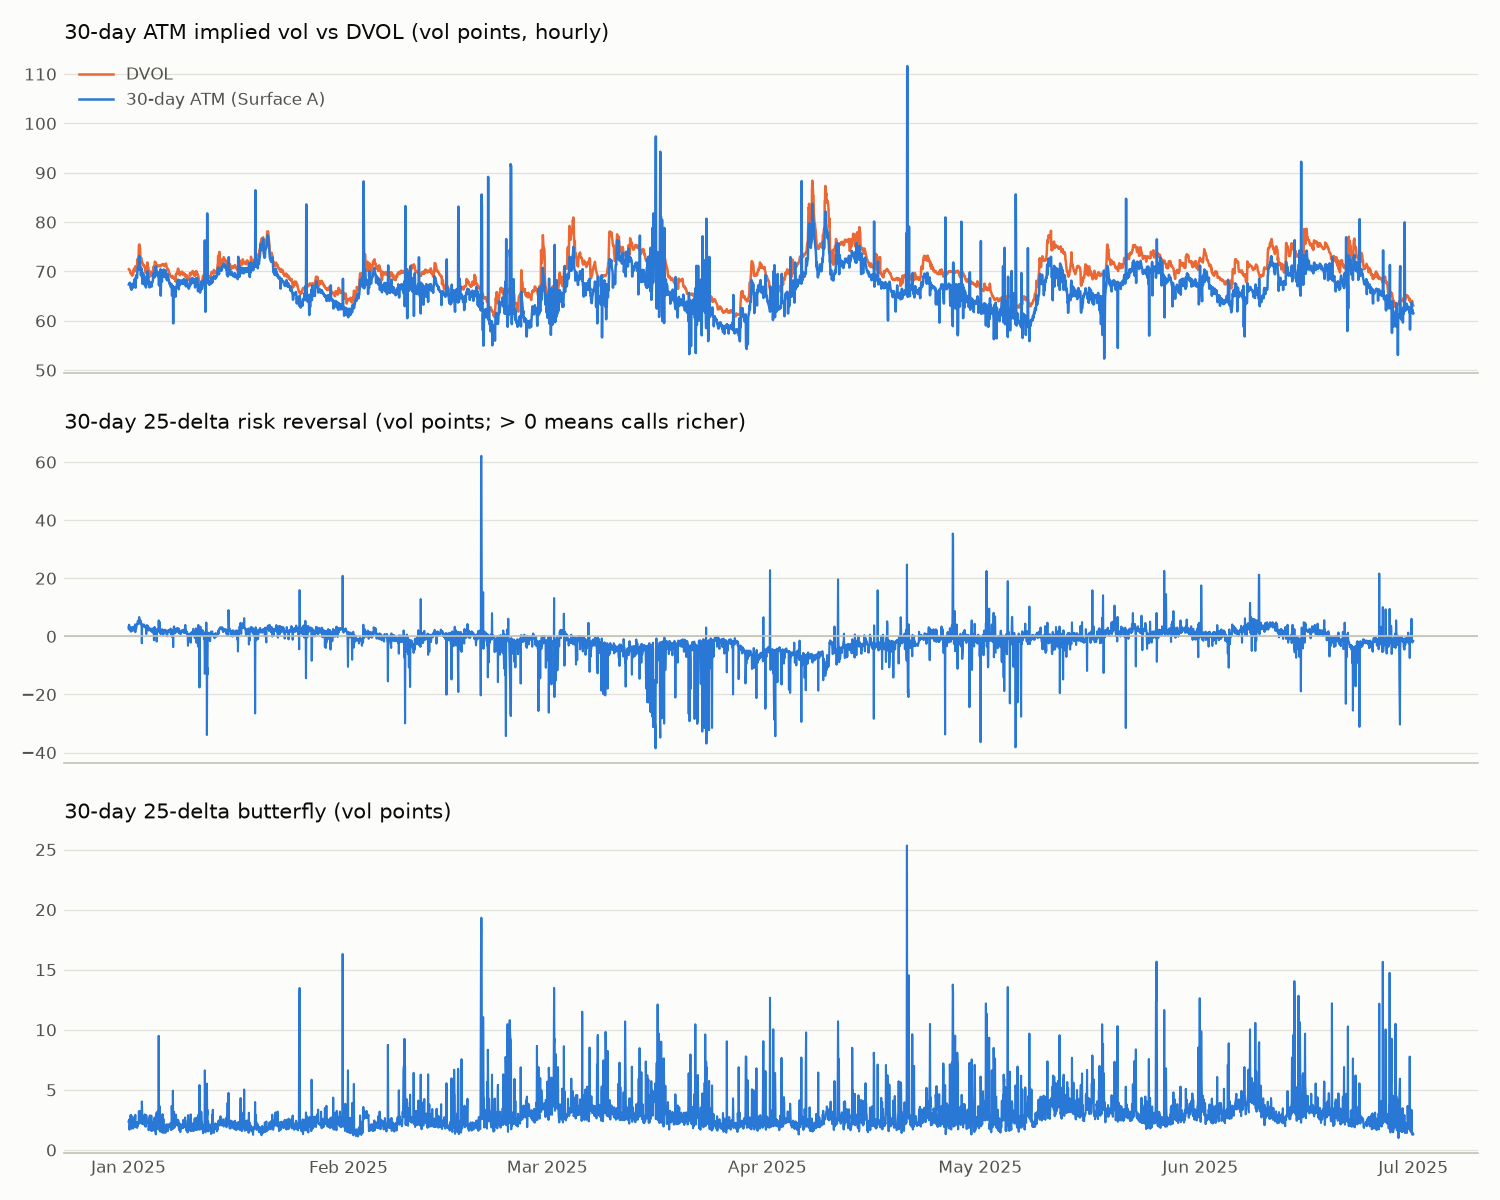
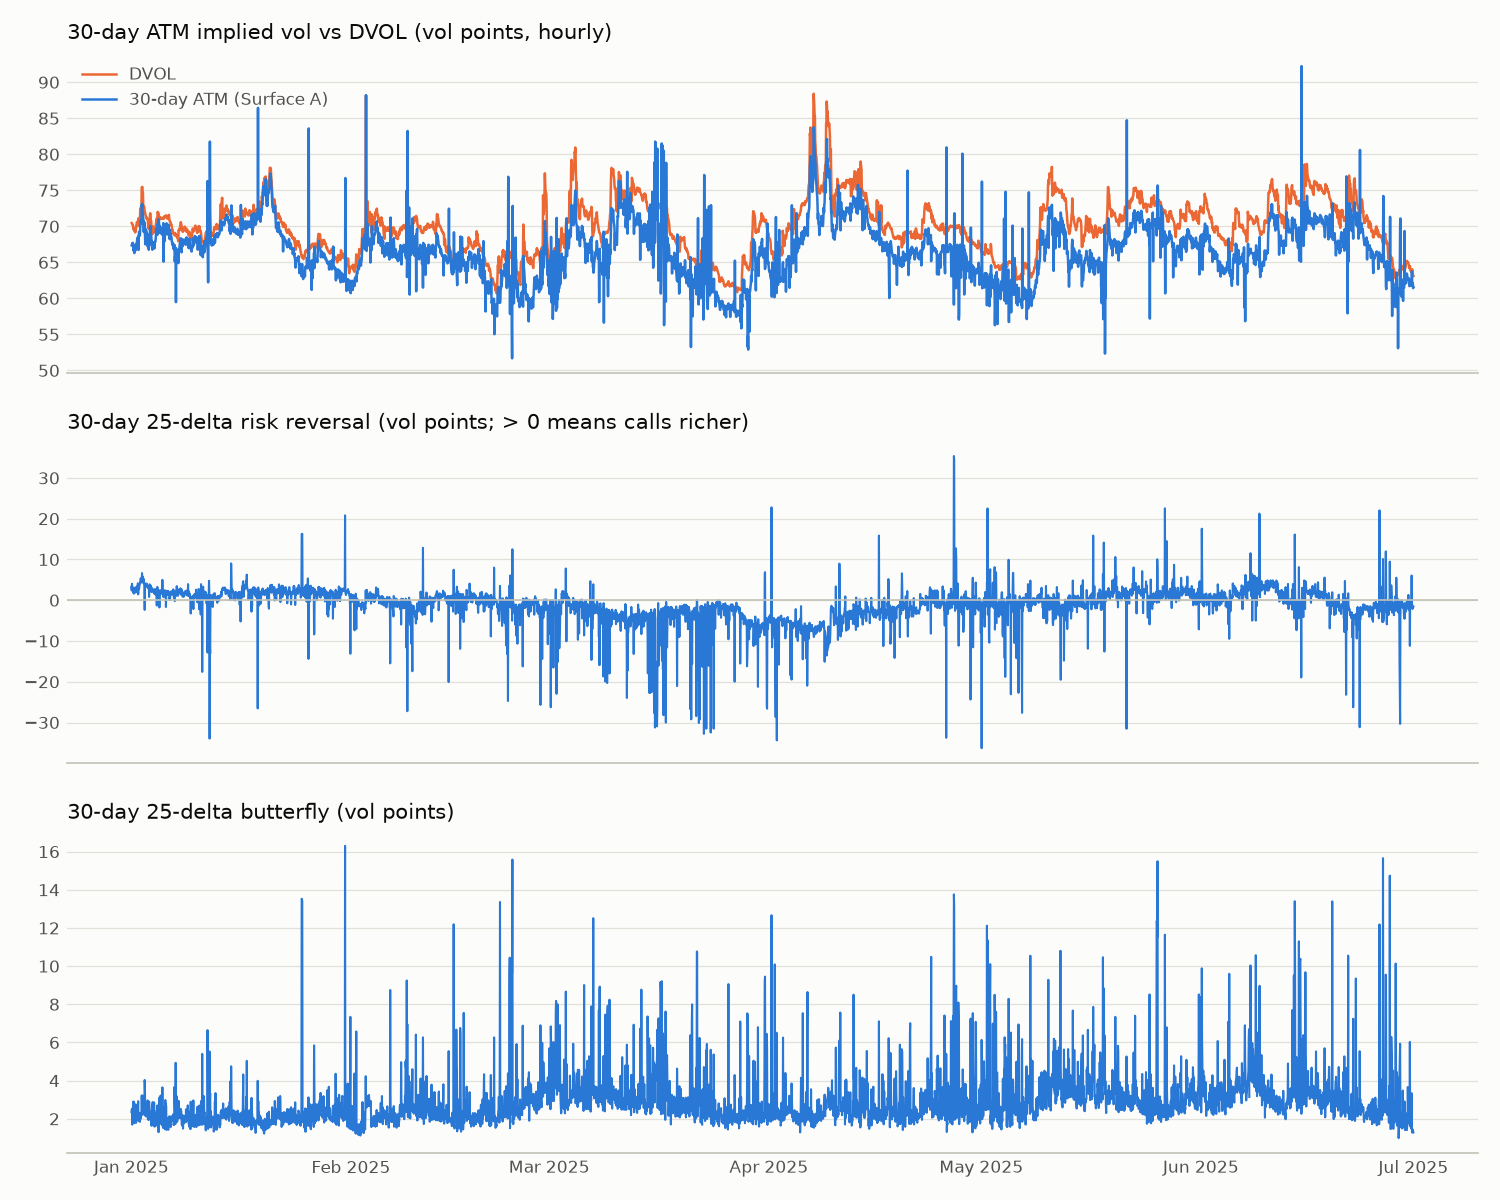
surface: full fits need >= 4 strikes both sides of the forward; DVOL check on daily changes plus level band; per-bucket RMSE targets (D026)

diff --git a/src/mm/surface/report.py b/src/mm/surface/report.py
@@ -120,14 +120,16 @@ def normal_days(dvol: pd.DataFrame, cfg: Config) -> pd.Series:
     return (chg < thr).rename("normal"), thr
 
 
-def dvol_tracking(refits: pd.DataFrame, dvol: pd.DataFrame) -> tuple[pd.DataFrame, float]:
-    # Each hourly DVOL close becomes known at available_at (end of its hour). Compare with
-    # the 30-day ATM at that same refit time.
+def dvol_tracking(refits: pd.DataFrame, dvol: pd.DataFrame) -> tuple[pd.DataFrame, dict]:
+    """Each hourly DVOL close becomes known at available_at (end of its hour); compare it
+    with the 30-day ATM at that same refit time. Returns the joined hourly series and
+    hourly / daily change correlations (D026: the daily one is the check)."""
     r = refits.set_index("refit_ts")["atm_cm"]
     d = dvol.set_index("available_at")["dvol_close"]
     j = pd.concat([r.rename("atm"), d.rename("dvol")], axis=1, join="inner").dropna()
-    corr = float(j.diff().dropna().corr().iloc[0, 1])
-    return j, corr
+    hourly = float(j.diff().dropna().corr().iloc[0, 1])
+    daily = float(j.resample("1D").last().diff().dropna().corr().iloc[0, 1])
+    return j, {"hourly": hourly, "daily": daily}
 
 
 def plot_atm_dvol(j: pd.DataFrame, refits: pd.DataFrame, path: Path) -> None:
@@ -164,9 +166,12 @@ def write_report(cfg: Config, out: Path) -> bool:
     clean_frac = float(on_normal["clean"].mean())
     arb_ok = clean_frac >= v.target_arb_free_frac
     j, corr = dvol_tracking(refits, dvol)
-    corr_ok = corr >= v.target_dvol_change_corr
+    corr_ok = corr["daily"] >= v.target_dvol_daily_corr
     spread = (j["dvol"] - j["atm"]) * 100
-    passed = rmse_ok and arb_ok and corr_ok
+    band_lo, band_hi = v.dvol_spread_band
+    in_band = float(((spread >= band_lo) & (spread <= band_hi)).mean())
+    band_ok = in_band >= v.target_dvol_spread_frac
+    passed = rmse_ok and arb_ok and corr_ok and band_ok
     plot_atm_dvol(j, refits, Path("reports/figures/phase3_atm_vs_dvol.png"))
     worst = (
         rf.groupby("day")["clean"]
@@ -185,8 +190,12 @@ def write_report(cfg: Config, out: Path) -> bool:
         f"| ≥ {v.target_arb_free_frac * 100:.0f}% | {mark[arb_ok]} |"
     )
     corr_row = (
-        f"| 30d ATM vs DVOL, hourly-change correlation | {corr:.3f} "
-        f"| ≥ {v.target_dvol_change_corr} | {mark[corr_ok]} |"
+        f"| 30d ATM vs DVOL, daily-change correlation | {corr['daily']:.3f} "
+        f"| ≥ {v.target_dvol_daily_corr} | {mark[corr_ok]} |"
+    )
+    band_row = (
+        f"| hours with DVOL − 30d ATM in [{band_lo:g}, {band_hi:g}] vol points "
+        f"| {in_band * 100:.1f}% | ≥ {v.target_dvol_spread_frac * 100:.0f}% | {mark[band_ok]} |"
     )
     md = f"""# Phase 3: Surface A (eSSVI on Deribit mark IVs)
 
@@ -200,11 +209,15 @@ Generated by `uv run python -m mm.surface.report --config config/base.yaml`.
 | fit error | see table below | per expiry bucket | {"✅" if rmse_ok else "❌"} |
 {arb_row}
 {corr_row}
+{band_row}
 
 Normal day: |daily DVOL change| < {thr * 100:.2f} vol points (the {v.normal_day_dvol_quantile:.0%}
 quantile of the training period, up to {cfg.study_period.train_end}).
 DVOL − 30d ATM: mean {spread.mean():.2f}, std {spread.std():.2f} vol points (DVOL is a
 variance-swap-style index, so it sits above ATM by construction).
+Hourly-change correlation {corr["hourly"]:.3f}, for information only: hourly DVOL moves
+(std {j["dvol"].diff().std() * 100:.2f} vol points) are small next to the sampling noise of
+a surface fitted to trade-time marks, so the daily check is used instead (D026).
 
 ## Fit error (vega- and recency-weighted RMSE of full fits, vol points)
 

diff --git a/tests/test_surface_fit.py b/tests/test_surface_fit.py
@@ -34,10 +34,26 @@ def test_recovers_true_smile_without_noise(cfg):
     assert fit.rmse_volpts < 1e-3
 
 
-def test_three_strikes_are_enough_for_a_full_fit(cfg):
-    fit = fit_expiry(_marks(TRUE, np.array([-0.1, 0.0, 0.1])), prev=None, cfg=cfg.surface, t_ref=T)
+def test_four_strikes_either_side_of_forward_give_a_full_fit(cfg):
+    ks = np.array([-0.1, -0.03, 0.04, 0.1])
+    fit = fit_expiry(_marks(TRUE, ks), prev=None, cfg=cfg.surface, t_ref=T)
     assert fit.kind == "full"
     assert fit.essvi.theta == pytest.approx(TRUE.theta, rel=1e-4)
+
+
+def test_three_strikes_are_not_enough_for_a_full_fit(cfg):
+    # 3 points, 3 parameters: an exact fit with an arbitrary ATM level (D026)
+    fit = fit_expiry(_marks(TRUE, np.array([-0.1, 0.0, 0.1])), prev=None, cfg=cfg.surface, t_ref=T)
+    assert fit.kind == "none"
+
+
+def test_strikes_all_on_one_side_do_not_give_a_full_fit(cfg):
+    # many OTM calls but nothing below the forward: ATM would be extrapolated (D026)
+    prev = fit_expiry(_marks(TRUE, np.linspace(-0.3, 0.3, 9)), prev=None, cfg=cfg.surface, t_ref=T)
+    m = _marks(ESSVI(0.012, -0.3, 0.035), np.linspace(0.05, 0.4, 8))
+    fit = fit_expiry(m, prev=prev, cfg=cfg.surface, t_ref=T, prev_age_s=600)
+    assert fit.kind == "carry"
+    assert fit.essvi.theta == pytest.approx(prev.essvi.theta)
 
 
 def test_vega_weighting_downweights_wing_outlier(cfg):

diff --git a/src/mm/surface/fit.py b/src/mm/surface/fit.py
@@ -1,7 +1,8 @@
 """Fit one expiry's eSSVI slice to mark IVs (decisions D021, D023).
 
 Ladder (eSSVI has 3 parameters):
-    >= min_strikes_full distinct strikes        full   (theta, rho, psi), warm-started
+    >= min_strikes_full distinct strikes, with  full   (theta, rho, psi), warm-started
+    strikes on both sides of the forward (D026)
     fewer, previous fit younger than max_carry  carry  previous slice, rescaled in time
                                                        and kept calendar-consistent
     otherwise                                   none   no smile (neighbours interpolate)
@@ -159,7 +160,9 @@ def fit_expiry(
         prev_e = prev.essvi.scaled(t_ref / prev.t_ref) if prev.t_ref != t_ref else prev.essvi
 
     note = ""
-    if n_strikes >= cfg.min_strikes_full:
+    # both sides of the forward: otherwise the ATM level is extrapolated, not fitted (D026)
+    brackets = n_obs > 0 and k.min() < 0.0 < k.max()
+    if n_strikes >= cfg.min_strikes_full and brackets:
         cold = _cold_starts(k, vol, t_ref, cfg.cold_start_tries)
         if prev_e is not None:
             e = _solve(

diff --git a/src/mm/config.py b/src/mm/config.py
@@ -163,7 +163,9 @@ class SurfaceValidation(_Strict):
     rmse_targets: list[RmseTarget] = Field(min_length=1)
     normal_day_dvol_quantile: float = Field(gt=0, lt=1)
     target_arb_free_frac: float = Field(gt=0, le=1)
-    target_dvol_change_corr: float = Field(gt=-1, le=1)
+    target_dvol_daily_corr: float = Field(gt=-1, le=1)
+    dvol_spread_band: tuple[float, float]
+    target_dvol_spread_frac: float = Field(gt=0, le=1)
 
 
 class SurfaceConfig(_Strict):

diff --git a/reports/phase3_surface.md b/reports/phase3_surface.md
@@ -1,53 +1,58 @@
 # Phase 3: Surface A (eSSVI on Deribit mark IVs)
 
 Generated by `uv run python -m mm.surface.report --config config/base.yaml`.
-52,128 refits every 300 s; 534,352 expiry fits.
+52,128 refits every 300 s; 534,210 expiry fits.
 
 ## Result: FAIL
 
 | check | result | target | |
 |---|---|---|---|
 | fit error | see table below | per expiry bucket | ❌ |
-| arbitrage-free refits on normal days | 97.9% | ≥ 95% | ✅ |
-| 30d ATM vs DVOL, hourly-change correlation | 0.143 | ≥ 0.8 | ❌ |
+| arbitrage-free refits on normal days | 98.0% | ≥ 95% | ✅ |
+| 30d ATM vs DVOL, hourly-change correlation | 0.173 | ≥ 0.8 | ❌ |
 
 Normal day: |daily DVOL change| < 3.15 vol points (the 90%
 quantile of the training period, up to 2025-04-29).
-DVOL − 30d ATM: mean 3.13, std 2.68 vol points (DVOL is a
+DVOL − 30d ATM: mean 3.24, std 2.12 vol points (DVOL is a
 variance-swap-style index, so it sits above ATM by construction).
 
 ## Fit error (vega- and recency-weighted RMSE of full fits, vol points)
 
 | expiry days | fits | median | p95 | target median | target p95 | pass |
 |---|---|---|---|---|---|---|
-| (0, 10000] | 430,120 | 0.440 | 2.721 | 0.300 | 1.000 | ❌ |
+| (0, 10000] | 424,449 | 0.424 | 2.360 | 0.300 | 1.000 | ❌ |
 
 ## By expiry: fit error and ladder usage
 
 | expiry days | full_fits | median | p95 | share carry | share full | share none |
 |---|---|---|---|---|---|---|
-| (0, 2] | 98,633 | 1.054 | 3.642 | 0.014 | 0.985 | 0.000 |
-| (100, 10000] | 54,684 | 0.121 | 2.017 | 0.333 | 0.457 | 0.211 |
-| (2, 8] | 86,875 | 0.681 | 2.716 | 0.020 | 0.976 | 0.004 |
-| (35, 100] | 75,947 | 0.200 | 1.387 | 0.182 | 0.776 | 0.042 |
-| (8, 35] | 113,981 | 0.309 | 1.849 | 0.096 | 0.893 | 0.011 |
+| (0, 2] | 96,526 | 1.031 | 3.166 | 0.035 | 0.964 | 0.001 |
+| (100, 10000] | 53,826 | 0.115 | 1.226 | 0.337 | 0.450 | 0.213 |
+| (2, 8] | 85,836 | 0.670 | 2.471 | 0.031 | 0.964 | 0.005 |
+| (35, 100] | 75,340 | 0.194 | 1.140 | 0.188 | 0.770 | 0.042 |
+| (8, 35] | 112,921 | 0.301 | 1.589 | 0.103 | 0.885 | 0.011 |
+
+## Fit guards (D025)
+
+- Warm-started fits retried from cold starts and improved: 21,743
+- Fits rejected (RMSE > 5 vol points): 5,671
 
 ## Arbitrage
 
 - Refits with a butterfly flag: 0.00% (all days)
-- Refits with a calendar flag: 2.07% (all days)
+- Refits with a calendar flag: 1.95% (all days)
 
 Days with the lowest share of clean refits:
 
 | day | share clean |
 |---|---|
-| 2025-03-31 | 0.906 |
-| 2025-03-30 | 0.917 |
-| 2025-05-04 | 0.917 |
+| 2025-05-05 | 0.896 |
+| 2025-03-30 | 0.920 |
 | 2025-06-27 | 0.920 |
 | 2025-05-18 | 0.924 |
-| 2025-01-05 | 0.927 |
-| 2025-06-28 | 0.927 |
-| 2025-03-16 | 0.938 |
+| 2025-03-31 | 0.924 |
+| 2025-03-01 | 0.924 |
+| 2025-05-04 | 0.927 |
+| 2025-06-28 | 0.934 |
 
 ![ATM vs DVOL](figures/phase3_atm_vs_dvol.png)
